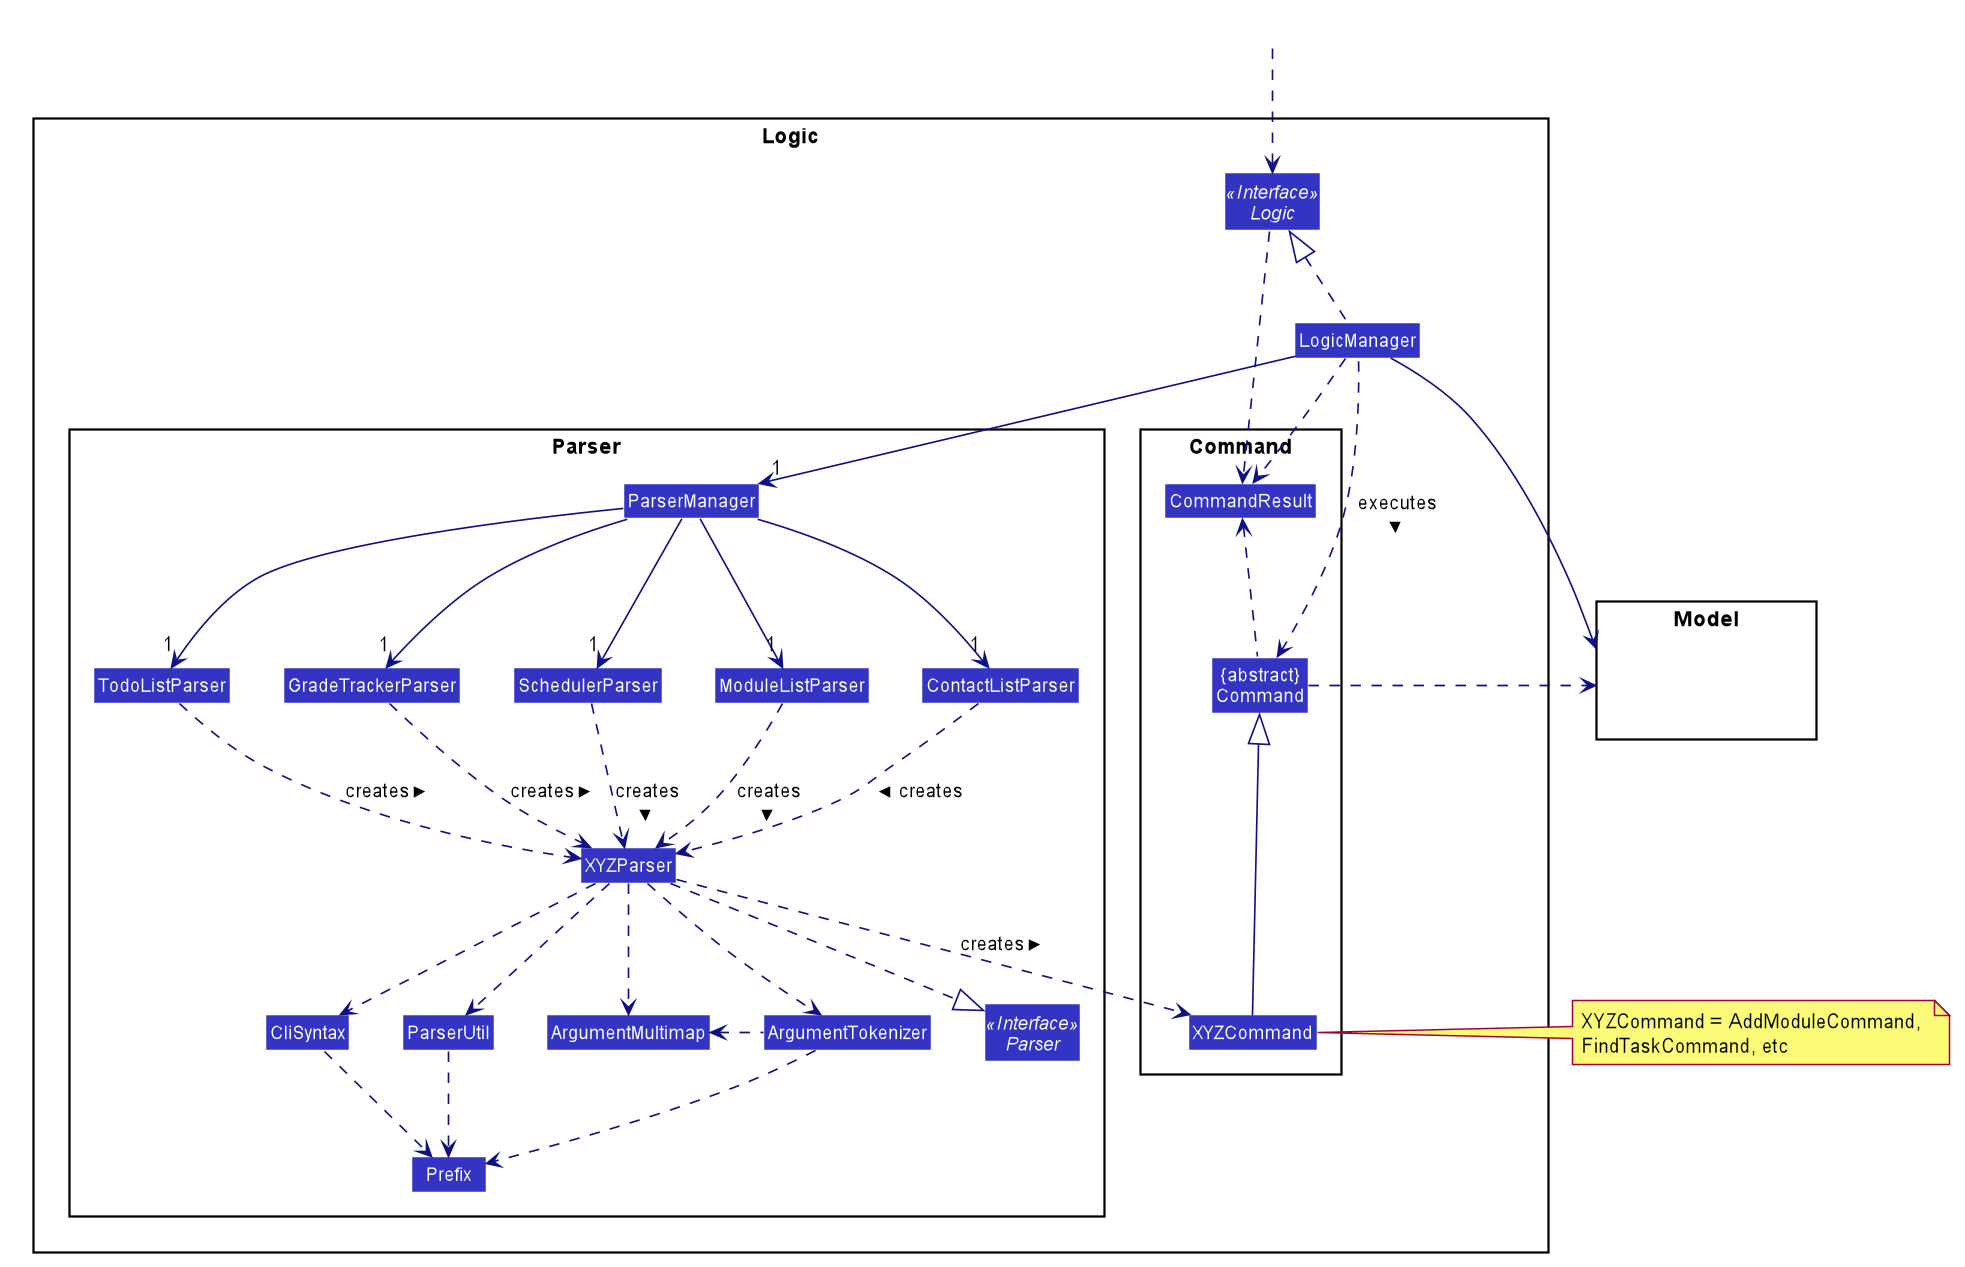
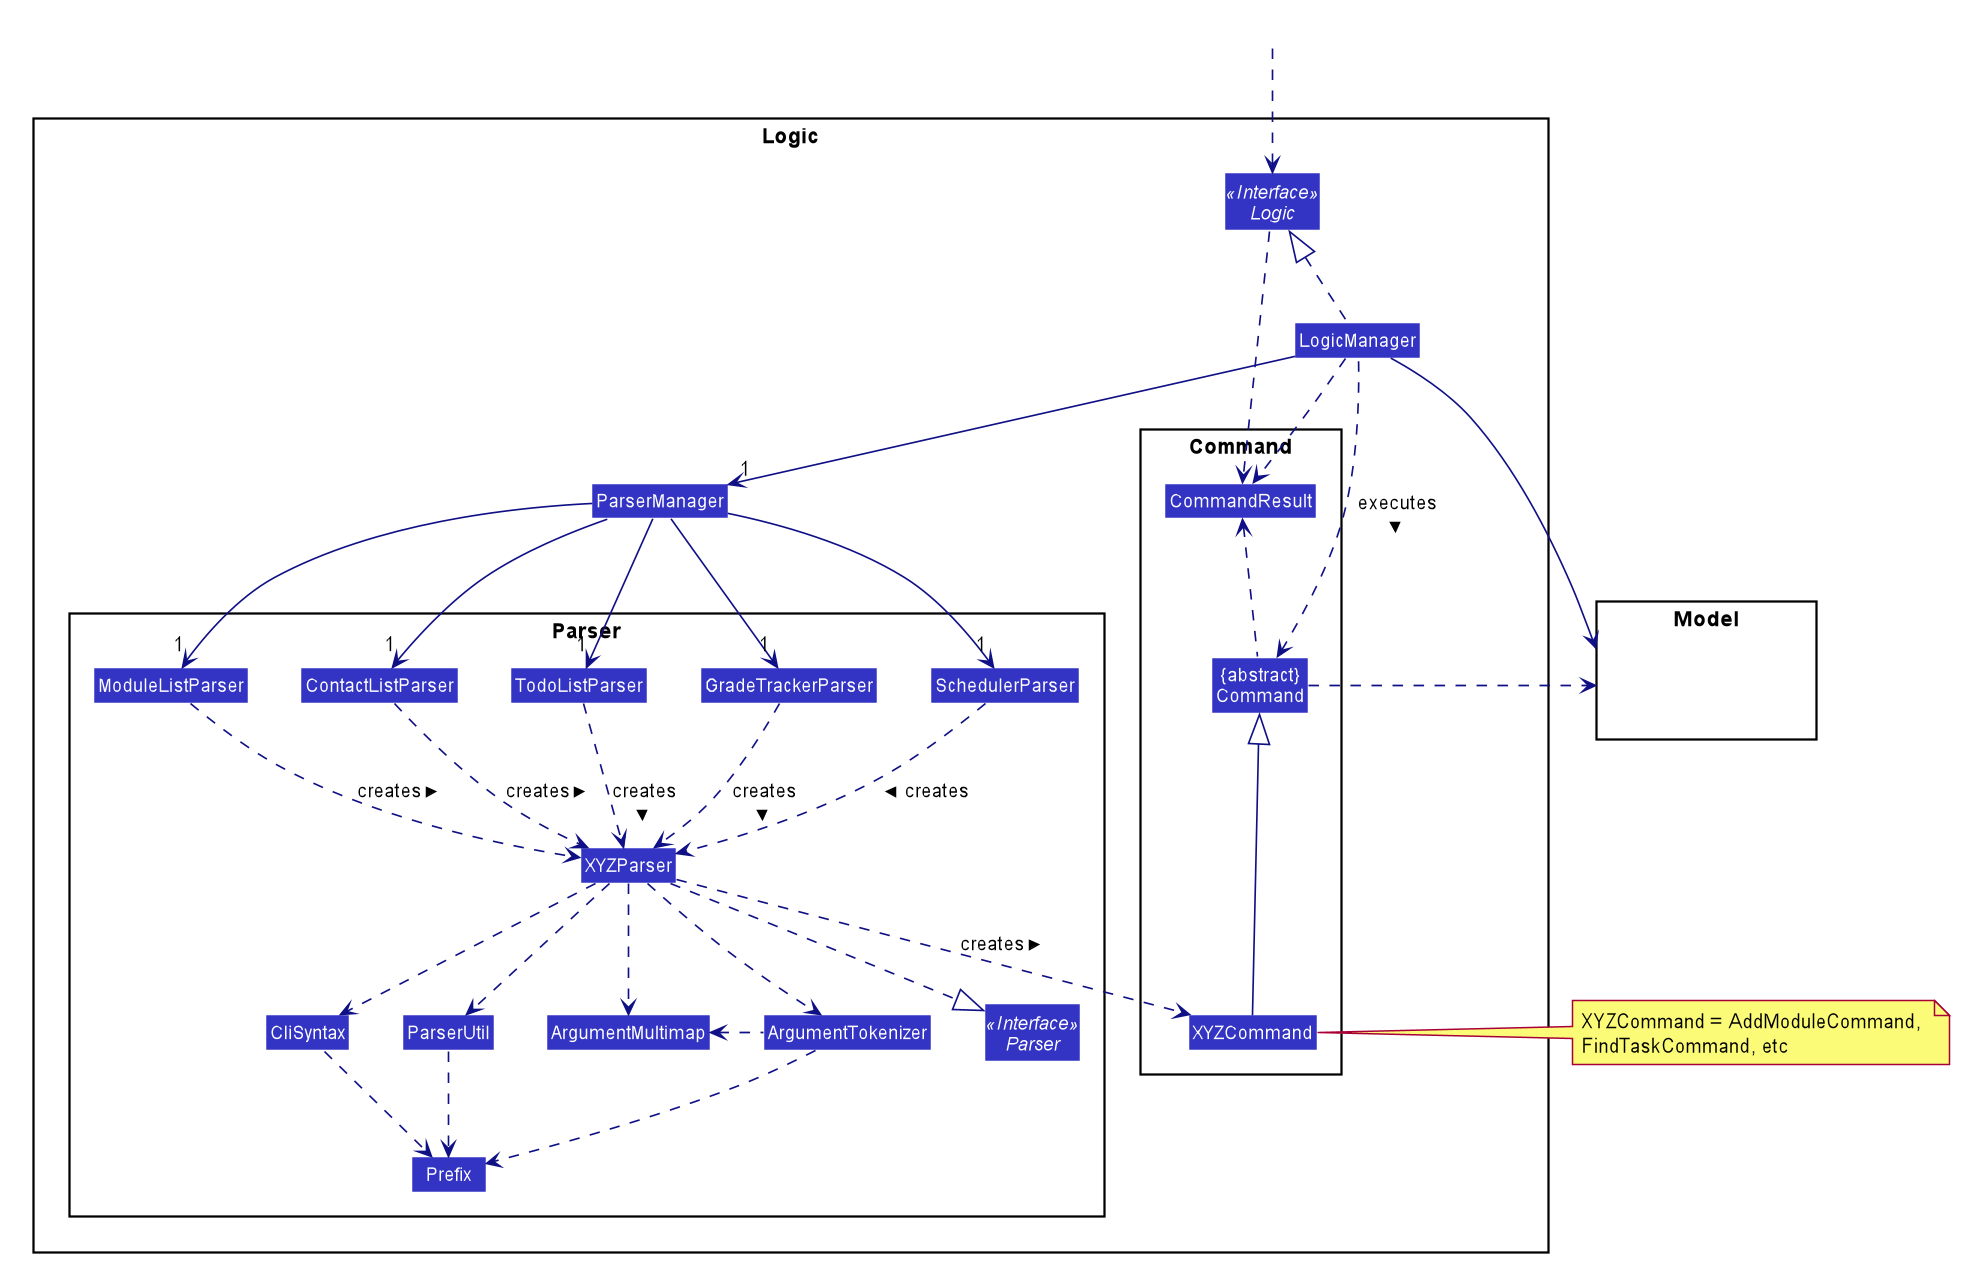
Update developer guide

diff --git a/docs/DeveloperGuide.md b/docs/DeveloperGuide.md
@@ -80,8 +80,8 @@ of the **XYZListPanel**.
 
 **API** : `Logic.java`
 
-1. Logic uses the `ParserManager` class to create the respective `Parser` classes: `ModuleListParser`, `ContactListParser`, `TodoListParser`,
-   `GradeTrackerParser` and `SchedulerParser`. Depending on the user command, the user command will be parsed by the relevant Parser class.
+1. `Logic` uses the `ParserManager` class to create the respective classes: `ModuleListParser`, `ContactListParser`, `TodoListParser`,
+   `GradeTrackerParser` and `SchedulerParser` which will parse the user command.
 2. This results in a `Command` object which is executed by `LogicManager`.
 3. The command execution can affect the Model (e.g. adding a module).
 4. The result of the command execution is encapsulated as a `CommandResult` object which is passed back to the `Ui`.
